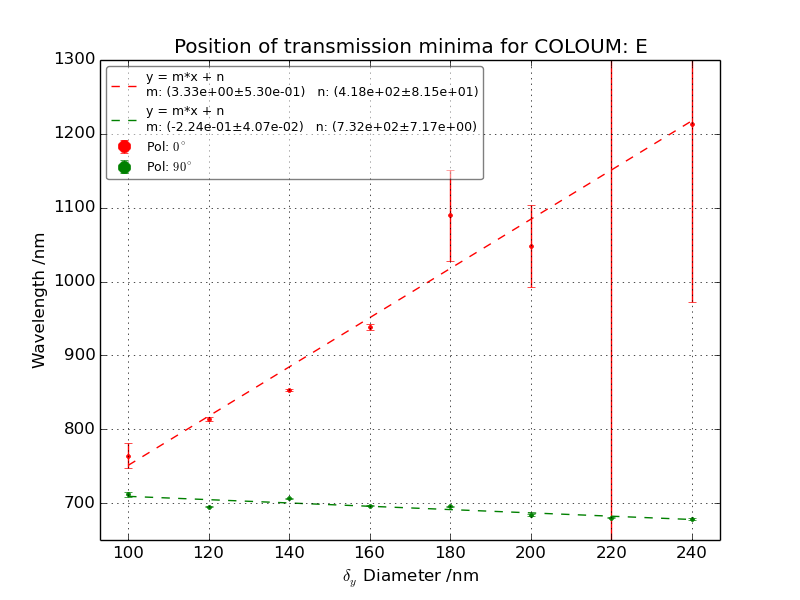
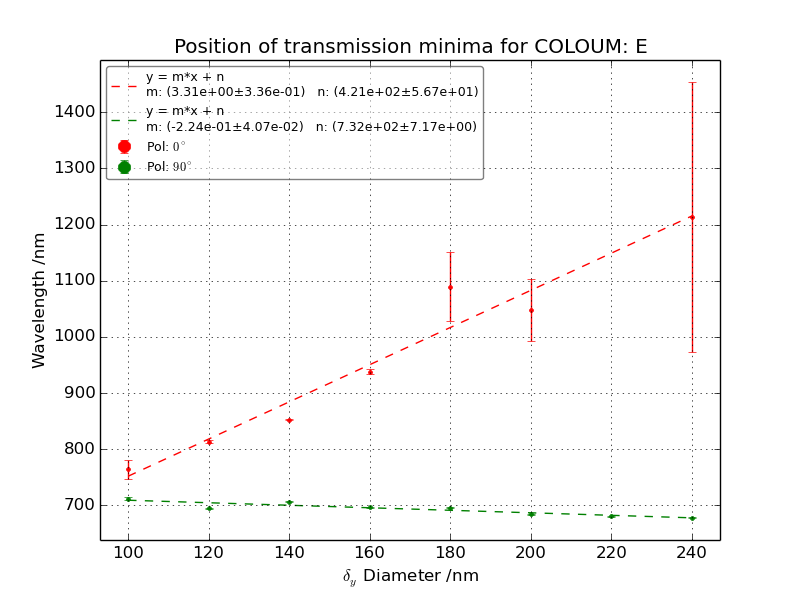
E und fazit fertig

diff --git a/Versuch441-Weisslichtspektroskopie-an-Gold-Nanostrukturen/Report/Versuch441_TobiasBrauell_FrederikeSchroedel_Report.tex b/Versuch441-Weisslichtspektroskopie-an-Gold-Nanostrukturen/Report/Versuch441_TobiasBrauell_FrederikeSchroedel_Report.tex
@@ -217,11 +217,14 @@
         \centering
         \begin{tabular}{|c|c|c|c|c|c|}
           \hline
-          \multirow{2}{*}{Row} & \multicolumn{5}{|c|}{Sample columns} 
+          \multirow{4}{*}{Row} & \multicolumn{5}{|c|}{Sample columns} 
           \\ \cline{2-6}
-          & $A /\SI{}{\nano\meter}$ & $B /\SI{}{\nano\meter}$ &
-          $C /\SI{}{\nano\meter}$ & $D /\SI{}{\nano\meter}$ &
-          $E /\SI{}{\nano\meter}$\\ \hline \hline 
+          & A & B & C & D & E \\
+          & Disk diameter & Dimers Mid-Mid & Period & Pentamers distance
+          & Ellipses  \\
+          & $d /\SI{}{\nano\meter}$ & $r /\SI{}{\nano\meter}$
+          & $p/\SI{}{\nano\meter}$ & $r /\SI{}{\nano\meter}$
+          & $\delta_{y} /\SI{}{\nano\meter}$\\ \hline \hline
           1 & 140 & 250 & 300 & 150 & 100 \\ \hline 
           2 & 170 & 275 & 325 & 160 & 120 \\ \hline 
           3 & 200 & 300 & 350 & 170 & 140 \\ \hline 
@@ -236,8 +239,7 @@
         \label{tab:samplepattern}
       \end{table}
       
-      \todo[inline]{hier noch mehr zu den samples schreiben. vielleich ein 
-      description ding machen.}
+      \todo[inline]{hier vielleicht noch mehr zu den samples schreiben.}
       
     \end{section}
     %%%%%%%%%%%%%%%%%%%%%%%%%%%%%
@@ -571,9 +573,35 @@
       Column \textbf{E} contains eight structures of Ellipses with a constant
       lattice of $\SI{750}{\nano\meter}$ and disk diameter
       $\delta_{x} = \SI{140}{\nano\meter}$ but varying disk diameter
-      $\delta_{y}$.
+      $\delta_{y}$. \newline
+      By stretching the sample disk in one direction and forming it into an
+      elliptic shape the resulting resonant frequency changes, with polarisation
+      parallel to the stretched axis, almost like it would for a normal disk
+      in \cref{chp:DataA}. In this polarisation direction the changes appear
+      again to be related by a linear function. But since the disk is elongated
+      in only one direction, the other one stays of exactly the same length.
+      In symmetrically round disks one would expect the resonant frequency to
+      stay exactly the same in this polarisation, but for elliptical shapes it
+      shifts slowly towards smaller wavelengths. This is, of course due to the
+      elliptical shape in which the distribution of charges is not as even as it
+      would be in a perfectly round shaped disk. This allows the charges to
+      rearrange themselves faster and results in a higher resonating frequency
+      and therefore a smaller wavelength.\newline
+      Looking at \cref{fig:TransspecFIT_EPol0,fig:TransspecFIT_EPol90} it
+      becomes clear that the resonant wavelength in the $\SI{0}{\degree}$
+      polarisation case already leaves the accurate range of wavelengths and
+      even leave the measured range all together.
+      The data points in this region seem to be very distorted and unclear and
+      the fitting routine was not always able to get an accurate fix on the
+      minima locations as shown by the very large ranges of error. Because of
+      this, we ignored the second to last data point in the $\SI{0}{\degree}$
+      series, which would have been at a wavelength of around
+      $\SI{18000}{\nano\meter}$. Looking beyond this minor technical problem,
+      it is easy to see from the fitted function in \cref{fig:MinimaPosE},
+      that in reality the resonant frequency behaves just like the theory
+      suggested it would.
       
-      \todo[inline]{Written analysis here!}
+      \todo[inline]{Fertig???}
       
       \begin{figure}[b!]
         \centering
@@ -613,7 +641,13 @@
     %%%%%%%%%%%%%%%%%%%%%%%%%%%%%%
     \begin{section}{Summary}
       \label{chp:AnalysisSummary}
-      
+      During this experiment we were able to confirm that the resonant frequency
+      of a plasmon is block in the transmission spectrum. We could also see how
+      the resonant frequency changed in response to the changed dimensions of
+      the sample and that those changes were correctly predicted by the
+      semi-classical model. \newline
+      We encountered only one unresolved problem by finding an offset in the
+      fitted functions for the two different polarisations we observed.
       
       
     \end{section}

diff --git a/Versuch441-Weisslichtspektroskopie-an-Gold-Nanostrukturen/Report/plots.py b/Versuch441-Weisslichtspektroskopie-an-Gold-Nanostrukturen/Report/plots.py
@@ -568,7 +568,7 @@ def TransSpecFIT(xl, xu, yl, yu, fn):
         fitted_x = np.linspace(np.min(diameter), np.max(diameter), 1000)
         fitted_y = oneoverrsq(fitted_x, *f)
         
-        plt.plot(fitted_x, fitted_y, color="green", label="y = a/x**2 + b\n"+
+        plt.plot(fitted_x, fitted_y, "--", color="green", label="y = a/x**2 + b\n"+
                  u"a: (%.2e±%.2e)" % (f[0], df[0]) +
                  u"   b: (%.2e±%.2e)" % (f[1], df[1]))
         
@@ -795,17 +795,24 @@ def TransSpecFIT(xl, xu, yl, yu, fn):
                                      lop, lloc)
         plt.figure()
         
+        mE0 = [mE0[0], mE0[1], mE0[2], mE0[3], mE0[4], mE0[5], mE0[7]]
+        dmE0 = [dmE0[0], dmE0[1], dmE0[2], dmE0[3], dmE0[4], dmE0[5], dmE0[7]]
+        diameter = [diameter[0], diameter[1], diameter[2], diameter[3],
+                    diameter[4], diameter[5], diameter[7]]
+        
         plt.errorbar(diameter, mE0, dmE0, fmt=".", color="red",
                      label=r"Pol: $0^{\circ}$")
+        diameter = [100.0, 120.0, 140.0, 160.0, 180.0, 200.0, 220.0, 240.0]
         plt.errorbar(diameter, mE90, dmE90, fmt=".", color="green",
                      label=r"Pol: $90^{\circ}$")
         
+        diameter = [diameter[0], diameter[1], diameter[2], diameter[3],
+                    diameter[4],  diameter[5],  diameter[7]]
         diameter = np.array(diameter)
         mE0 = np.array(mE0)
         mE90 = np.array(mE90)
         
-        f, varianz = op.curve_fit(gerade, diameter[:-2], mE0[:-2],
-                                  maxfev=100000)
+        f, varianz = op.curve_fit(gerade, diameter, mE0, maxfev=100000)
         df = np.sqrt(np.sqrt(varianz.diagonal()**2))
         
         fitted_x = np.linspace(np.min(diameter), np.max(diameter), 1000)
@@ -816,6 +823,8 @@ def TransSpecFIT(xl, xu, yl, yu, fn):
                  u"m: (%.2e±%.2e)" % (f[0], df[0]) +
                  u"   n: (%.2e±%.2e)" % (f[1], df[1]))
         
+        diameter = [100.0, 120.0, 140.0, 160.0, 180.0, 200.0, 220.0, 240.0]
+        diameter = np.array(diameter)
         f, varianz = op.curve_fit(gerade, diameter, mE90, maxfev=100000)
         df = np.sqrt(np.sqrt(varianz.diagonal()**2))
         
@@ -832,7 +841,7 @@ def TransSpecFIT(xl, xu, yl, yu, fn):
         plt.xlabel(r"$\delta_y$ Diameter /nm")
         plt.ylabel("Wavelength /nm")
         
-        plt.ylim(650, 1300)
+        #plt.ylim(650, 1300)
         
         # place a Legend in the plot
         set_legend(lsizef, 3, lop, 2)
@@ -855,10 +864,10 @@ savefig_pdf = 0
 savefig_png = 1
 msize = 2
 
-A_OnOff = 1
-B_OnOff = 1
-C_OnOff = 1
-D_OnOff = 1
+A_OnOff = 0
+B_OnOff = 0
+C_OnOff = 0
+D_OnOff = 0
 E_OnOff = 1
 
 # RAW DATA

diff --git a/header_TobiasBrauell-DOCUMENTs.tex b/header_TobiasBrauell-DOCUMENTs.tex
@@ -1,4 +1,4 @@
-% Copyright © 2014 Tobias Brauell <tobiasbrauell@gmail.com>
+% Copyright © 2014 Tobias Brauell <tobiasbrauell@gmail.com>1
 
 % This is my general purpose LaTeX header file for writing German documents.
 % Ideally, you include this using a simple ``\input{header.tex}`` in your main
@@ -180,7 +180,7 @@
   \newcolumntype{L}[1]{>{\raggedright\arraybackslash}p{#1}} % linksbündig mit Breitenangabe
   \newcolumntype{C}[1]{>{\centering\arraybackslash}p{#1}} % zentriert mit Breitenangabe
   \newcolumntype{R}[1]{>{\raggedleft\arraybackslash}p{#1}} % rechtsbündig mit Breitenangabe
-
+\renewcommand{\arraystretch}{1.15}
 
 
 %%%%%%%%%%%%%%%%%%%%%%%%%%%%%

diff --git a/Versuch424-Hall-Effekt-in-Halbleitern/Report/Versuch424_TobiasBrauell_FrederikeSchroedel_Report.tex b/Versuch424-Hall-Effekt-in-Halbleitern/Report/Versuch424_TobiasBrauell_FrederikeSchroedel_Report.tex
@@ -204,7 +204,7 @@
   %%%%%%%%%%%%%%%%%%%%
   %%%%%%%%%%%%%%%%%%%%
   %%%%%%%%%%%%%%%%%%%%
-  \input{./Versuch401_TobiasBrauell_FrederikeSchroedel_Appendix.tex}
+  \input{./Versuch424_TobiasBrauell_FrederikeSchroedel_Appendix.tex}
   %%%%%%%%%%%%%%%%%%%%
   
   
@@ -214,8 +214,7 @@
   %%%%%%%%%%%%%%%%%%%%
   \begin{thebibliography}{99}
     \scriptsize
-    
-   
+    \input{./Bibliography.tex}
   \end{thebibliography}
   %%%%%%%%%%%%%%%%%%%%
  

diff --git a/Versuch443-Kernmagnetische-Relaxation/Report/Versuch443_TobiasBrauell_FrederikeSchroedel_Report.tex b/Versuch443-Kernmagnetische-Relaxation/Report/Versuch443_TobiasBrauell_FrederikeSchroedel_Report.tex
@@ -204,7 +204,7 @@
   %%%%%%%%%%%%%%%%%%%%
   %%%%%%%%%%%%%%%%%%%%
   %%%%%%%%%%%%%%%%%%%%
-  \input{./Versuch401_TobiasBrauell_FrederikeSchroedel_Appendix.tex}
+  \input{./Versuch443_TobiasBrauell_FrederikeSchroedel_Appendix.tex}
   %%%%%%%%%%%%%%%%%%%%
   
   
@@ -214,8 +214,7 @@
   %%%%%%%%%%%%%%%%%%%%
   \begin{thebibliography}{99}
     \scriptsize
-    
-   
+    \input{./Bibliography.tex}
   \end{thebibliography}
   %%%%%%%%%%%%%%%%%%%%
  

diff --git a/Versuch441-Weisslichtspektroskopie-an-Gold-Nanostrukturen/Report/header_TobiasBrauell-DOCUMENT.tex b/Versuch441-Weisslichtspektroskopie-an-Gold-Nanostrukturen/Report/header_TobiasBrauell-DOCUMENT.tex
@@ -180,7 +180,7 @@
   \newcolumntype{L}[1]{>{\raggedright\arraybackslash}p{#1}} % linksbündig mit Breitenangabe
   \newcolumntype{C}[1]{>{\centering\arraybackslash}p{#1}} % zentriert mit Breitenangabe
   \newcolumntype{R}[1]{>{\raggedleft\arraybackslash}p{#1}} % rechtsbündig mit Breitenangabe
-
+\renewcommand{\arraystretch}{1.15}
 
 
 %%%%%%%%%%%%%%%%%%%%%%%%%%%%%

diff --git a/Versuch402-Quantelung von Energie/Report/header_TobiasBrauell-DOCUMENT.tex b/Versuch402-Quantelung von Energie/Report/header_TobiasBrauell-DOCUMENT.tex
@@ -1,4 +1,4 @@
-% Copyright © 2014 Tobias Brauell <tobiasbrauell@gmail.com>
+% Copyright © 2014 Tobias Brauell <tobiasbrauell@gmail.com>2
 
 % This is my general purpose LaTeX header file for writing German documents.
 % Ideally, you include this using a simple ``\input{header.tex}`` in your main

diff --git a/Versuch424-Hall-Effekt-in-Halbleitern/Report/Bibliography.tex b/Versuch424-Hall-Effekt-in-Halbleitern/Report/Bibliography.tex
@@ -1,0 +1,2 @@
+\bibitem{bib:Anleitung}\url{http://www.praktika.physik.uni-bonn.de/module/physik412/downloads/p441d}
+\bibitem{bib:}\url{bla}

diff --git a/Versuch443-Kernmagnetische-Relaxation/Report/Bibliography.tex b/Versuch443-Kernmagnetische-Relaxation/Report/Bibliography.tex
@@ -1,0 +1,2 @@
+\bibitem{bib:Anleitung}\url{http://www.praktika.physik.uni-bonn.de/module/physik412/downloads/p441d}
+\bibitem{bib:}\url{bla}
